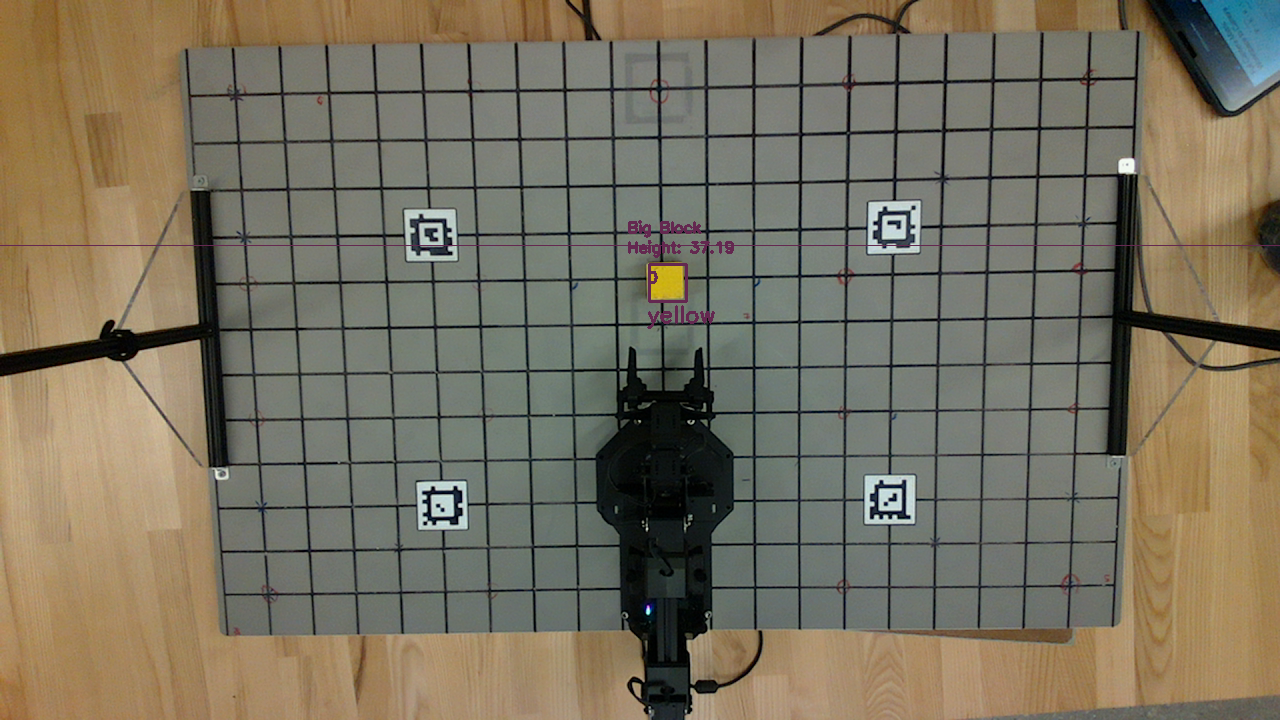
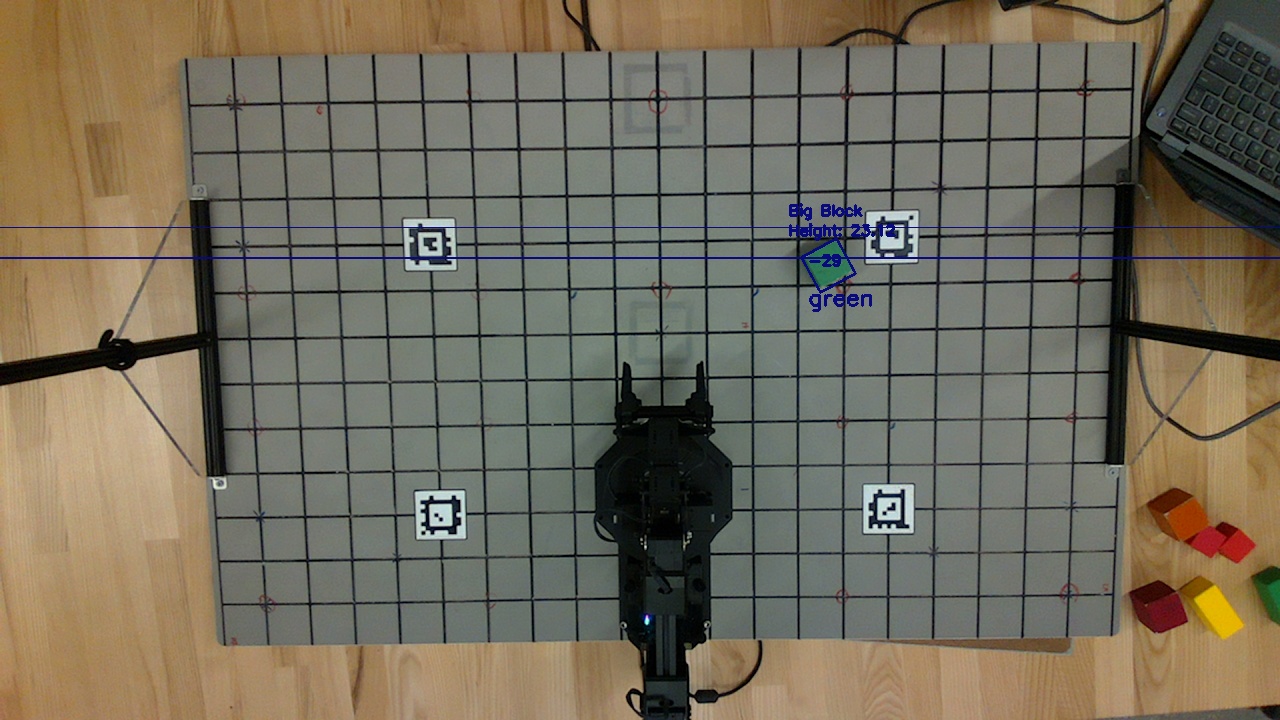
Add IK_event_1 in kinematics to take T(4x4) matrix

diff --git a/kinematics.py b/kinematics.py
@@ -503,6 +503,162 @@ def IK_geometric_two(dh_params, pose, direction):
 
     # return [q1_f,q2_f,q3_f,q4_f,q5_f]
 
+def IK_geometric_event_1(dh_params, T, direction):
+    """!
+    @brief      Get all possible joint configs that produce the pose.
+
+                TODO: Convert a desired end-effector pose vector as np.array to joint angles
+
+    @param      dh_params  The dh parameters
+    @param      pose       The desired pose vector as np.array 
+    @param      direction  The direction of EE, it could be "flat" or "down"
+
+    @return     All four possible joint configurations in a numpy array 4x4 where each row is one possible joint
+                configuration
+    """
+    pose = get_pose_from_T(T)
+    phi = pose[3]
+    theta = pose[4]
+    psi = pose[5]
+    # Defining co
+    l1 = dh_params[1][0] # 205.73
+    l2 = dh_params[2][0] # 200
+    d1 = dh_params[0][2] # 103.91
+    link6_len = dh_params[4][2]; 
+    angle_offset = math.pi/2 - math.atan2(50,200)
+    # print(l1,l2,d1,link6_len,angle_offset)
+    # print('\n')
+
+    # End Effector Location
+    pos_ee = np.array([pose[0],pose[1],pose[2]])
+    x = pos_ee[0]
+    y = pos_ee[1]
+    z = pos_ee[2]
+    # print(pos_ee)
+    # print('\n')
+
+    if direction=="down":
+        pos_wrist = pos_ee + np.array([0,0,link6_len])
+        # print(pos_wrist)
+        # print('\n')
+        # print(link6_len)
+        # print('\n')
+        # R_0_5 = get_R_from_euler_angles(0.0,np.pi,0.0)
+        R_0_5 = get_R_from_euler_angles(phi,theta,psi)
+    elif direction=="flat":
+        R_0_5 = get_R_from_euler_angles(math.atan2(pose[1],pose[0]),np.pi/2,0.0)
+        pos_wrist = pos_ee - link6_len*np.matmul(R_0_5,np.array([0,0,1]))
+
+    # Wrist location
+    ox = pos_wrist[0]
+    oy = pos_wrist[1]
+    oz = pos_wrist[2]
+    # print(ox,oy,oz)
+    # print('\n')
+    planar_x = math.sqrt(ox**2 + oy**2)
+    planar_y = oz - d1
+    # print(planar_x)
+    # print('\n')
+    # print(planar_y)
+    # print('\n')
+    # Q1 - Calculation 
+    q1 = math.atan2(oy,ox) - np.pi/2.0
+    if q1 < -np.pi:
+        q1 = q1 + 2*np.pi
+
+    # Q3 - Calculation
+    c3 = ((planar_x**2 + planar_y**2) - l1**2 -l2**2)/(2*l1*l2)
+    
+    if np.absolute(c3) > 1:
+        print('Postion Unreachable')
+    elif c3 ==1:
+        theta_2 = math.atan2(oy,ox)
+        theta_3 = 0
+        theta_3_alt = 0
+    elif c3 ==-1 and (planar_x**2 + planar_y**2) != 0:
+        theta_2 = math.atan2(oy,ox)
+        theta_3 = math.pi
+        theta_3_alt = -math.pi
+    elif c3 ==-1 and (planar_x**2 + planar_y**2) == 0:
+        theta_2 = 0 # picking zero, as it has infinite solutions
+        theta_3 = math.pi
+        theta_3_alt = -math.pi
+        print('Infinite solutions')
+    else:
+        theta_3 = math.acos(c3)
+        theta_3_alt = -math.acos(c3)
+
+    theta_3 = -theta_3    # Choosing Elbow Up 
+    q3 = theta_3 + angle_offset
+    q3_alt = theta_3_alt + angle_offset
+
+    # Q2 - Calculation
+    theta_2 = math.atan2(planar_y,planar_x) - math.atan2(l2*math.sin(theta_3),l1+l2*math.cos(theta_3))
+    theta_2_alt = math.atan2(planar_y,planar_x) - math.atan2(l2*math.sin(theta_3_alt),l1+l2*math.cos(theta_3_alt))
+    q2 = angle_offset - theta_2
+    q2_alt = angle_offset - theta_2_alt
+
+    q_1_2_3_A1 = np.array([q1,q2,q3])
+    q_1_2_3_A2 = np.array([q1,q2_alt,q3_alt])
+
+    # For A1 - For Q3, Q4, Q5 calculations
+    joint_angles_mod_A1 = np.array([q1,q2,q3,0.0,0.0])
+    T_0_3_A1 = FK_dh(dh_params, joint_angles_mod_A1, 3)
+    R_0_3_A1 = T_0_3_A1[0:3,0:3]
+    R_3_5_A1 = np.matmul(np.linalg.inv(R_0_3_A1), R_0_5)
+
+    # For A2 - For Q3, Q4, Q5 calculations
+    joint_angles_mod_A2 = np.array([q1,q2_alt,q3_alt,0.0,0.0])
+    T_0_3_A2 = FK_dh(dh_params, joint_angles_mod_A2, 3)
+    R_0_3_A2 = T_0_3_A2[0:3,0:3]
+    R_3_5_A2 = np.matmul(np.linalg.inv(R_0_3_A2), R_0_5)
+
+    q4_A1,q5_A1,q6_A1 = get_euler_angles_from_T(R_3_5_A1)
+    q4_A2,q5_A2,q6_A2 = get_euler_angles_from_T(R_3_5_A2)
+
+    # Checking q1,q2,q3,q4,q5
+    joint_angles_A1 = np.concatenate((q_1_2_3_A1, np.array([q4_A1,q5_A1,q6_A1])), axis=None)
+    joint_angles_A2 = np.concatenate((q_1_2_3_A2, np.array([ q4_A2,q5_A2,q6_A2])), axis=None)
+
+    T_A1 = FK_dh(dh_params, joint_angles_A1, 5)
+    T_A2 = FK_dh(dh_params, joint_angles_A2, 5)
+
+    try: 
+        pose_A1 = get_pose_from_T(T_A1)
+        if np.allclose(pos_ee, np.array(pose_A1[0:3]), rtol=1e-04, atol=1e-05, equal_nan=False):
+            # print(T_A1)
+            # print('\n')
+            # print(np.array(pose_A1[0:3]))
+            # print('\n')
+            if direction == "flat":
+                q7 = 0
+            else:
+                q7 = q6_A1
+            return [q1,q2,q3,q4_A1,q7]
+        else:
+            q8 = error_intentional
+    except:
+        pose_A2 = get_pose_from_T(T_A2)
+        # print(T_A2)
+        # print('\n')
+        # print(np.array(pose_A2[0:3]))
+        # print('\n')
+        if direction == "flat":
+            q7 = 0
+        else:
+            q7 = q6_A2
+        return [q1,q2,q3,q4_A2,q7]
+
+    # if direction=="down":
+    #     q4 = q2-q3-math.pi/2  
+    #     q5 = q1
+    # elif direction=="flat":
+    #     q4 = q2-q3
+    #     q5 = 0
+
+    # return [q1_f,q2_f,q3_f,q4_f,q5_f]
+
+
 def rotation_matrix(theta1, theta2, theta3, order='xyz'):
     """
     input

diff --git a/state_machine.py b/state_machine.py
@@ -9,7 +9,7 @@ import cv2
 import math
 import sys
 import os
-from kinematics import IK_geometric_two
+from kinematics import IK_geometric_two, IK_geometric_event_1
 
 class StateMachine():
     """!
@@ -623,10 +623,11 @@ class StateMachine():
 
         self.status_message = "Running Event 1"
         self.current_state = "event1"
+        
 
         if self.init1:
             self.smallBlockPlace1 = np.zeros((4,4))
-            self.smallBlockPlace1[0:3,0:3] = np.eye((3,3))
+            self.smallBlockPlace1[0:3,0:3] = np.eye(3,3)
             self.smallBlockPlace1[-1,:] = 50*np.array([-3, -2, 0, 1])
             self.bigBlockPlace1 = self.smallBlockPlace1.copy()
             self.bigBlockPlace1[-1,:] = 50*np.array([3, -2, 0, 1])
@@ -667,13 +668,13 @@ class StateMachine():
 
             #Move small blocks to negative block area
             if x>=0 and block_type == 'Small Block':
-                pick_up_block(block_Frame)
-                place_block(self.smallBlockPlace1)
+                pick_up_block(block_Frame,"down")
+                place_block(self.smallBlockPlace1,"down")
                 moves += 1
             #Move big blocks to positive block araea
             elif x<=0 and block_type == 'Big Block':
-                pick_up_block(block_Frame)
-                place_block(self.bigBlockPlace1)
+                pick_up_block(block_Frame,"down")
+                place_block(self.bigBlockPlace1,"down")
                 moves +=1
 
         #Done if robot determined that there was nothin to move
@@ -885,7 +886,7 @@ class StateMachine():
         self.camera.detectBlocksInDepthImage()
         self.camera.blockDetector()
 
-    def pick_up_block(self, pickupFrame):
+    def pick_up_block(self, pickupFrame, direction):
         """!
         @brief      Adds waypoints to pick up block
         """        
@@ -893,26 +894,26 @@ class StateMachine():
         self.waypoint_grip = []
 
         approachFrame = pickupFrame.copy()
-        approachFrame[-1,2] += 50
-        pickupFrame[-1,2] -= 10
+        approachFrame[2,-1] += 100
+        pickupFrame[2,-1] += 10
 
         #TODO: write IK function to accomplish the rest of this
-        #approach = IK(approachFrame)        
-        #pickup = IK(pickupFrame)        
+        approach = IK_geometric_event_1(self.rxarm.dh_params, approachFrame, direction)     
+        pickup = IK_geometric_event_1(self.rxarm.dh_params, pickupFrame, direction)        
         
-        self.waypoint.append(approach)
+        self.waypoints.append(approach)
         self.waypoint_grip.append(0)
 
-        self.waypoint.append(pickup)
+        self.waypoints.append(pickup)
         self.waypoint_grip.append(0)
 
-        self.waypoint.append(pickup)
+        self.waypoints.append(pickup)
         self.waypoint_grip.append(1)
 
-        self.waypoint.append(approach)
+        self.waypoints.append(approach)
         self.waypoint_grip.append(1)
 
-    def place_block(self, placeFrame):
+    def place_block(self, placeFrame, direction):
         """!
         @brief      Adds waypoints to place block
         """                
@@ -920,23 +921,23 @@ class StateMachine():
         self.waypoint_grip = []
 
         approachFrame = placeFrame.copy()
-        approachFrame[-1,2] += 50
-        palceFrame[-1,2] -= 10
+        approachFrame[2,-1] += 100
+        placeFrame[2,-1] -= 10
 
         #TODO: write IK function to accomplish the rest of this
-        #approach = IK(approachFrame)        
-        #drop = IK(placeFrame)        
+        approach = IK_geometric_event_1(self.rxarm.dh_params, approachFrame, direction)      
+        drop = IK_geometric_event_1(self.rxarm.dh_params, placeFrame, direction)        
         
-        self.waypoint.append(approach)
+        self.waypoints.append(approach)
         self.waypoint_grip.append(1)
 
-        self.waypoint.append(drop)
+        self.waypoints.append(drop)
         self.waypoint_grip.append(1)
 
-        self.waypoint.append(pickup)
+        self.waypoints.append(drop)
         self.waypoint_grip.append(0)
 
-        self.waypoint.append(approach)
+        self.waypoints.append(approach)
         self.waypoint_grip.append(0)        
 
     def next_color(self, current_color):
@@ -947,8 +948,16 @@ class StateMachine():
 #Testing self.camera.PxFrame2WorldFrame()
     def test(self):
         self.detect_blocks_once()
-        print(self.camera.blockData[0][0])    
-        self.next_state = 'idle'
+        # print(self.camera.blockData[0][0])
+        # print('\n') 
+        self.pick_up_block(self.camera.blockData[0][0],"down")
+        # print(self.waypoints)
+        # print('\n') 
+        bigBlockPlace1 = self.camera.blockData[0][0].copy()
+        bigBlockPlace1[0][-1] -= 250
+        self.place_block(bigBlockPlace1,"down")   
+        self.next_state = "execute"
+
 #Testing block_in_zone
 '''
     def test(self):
